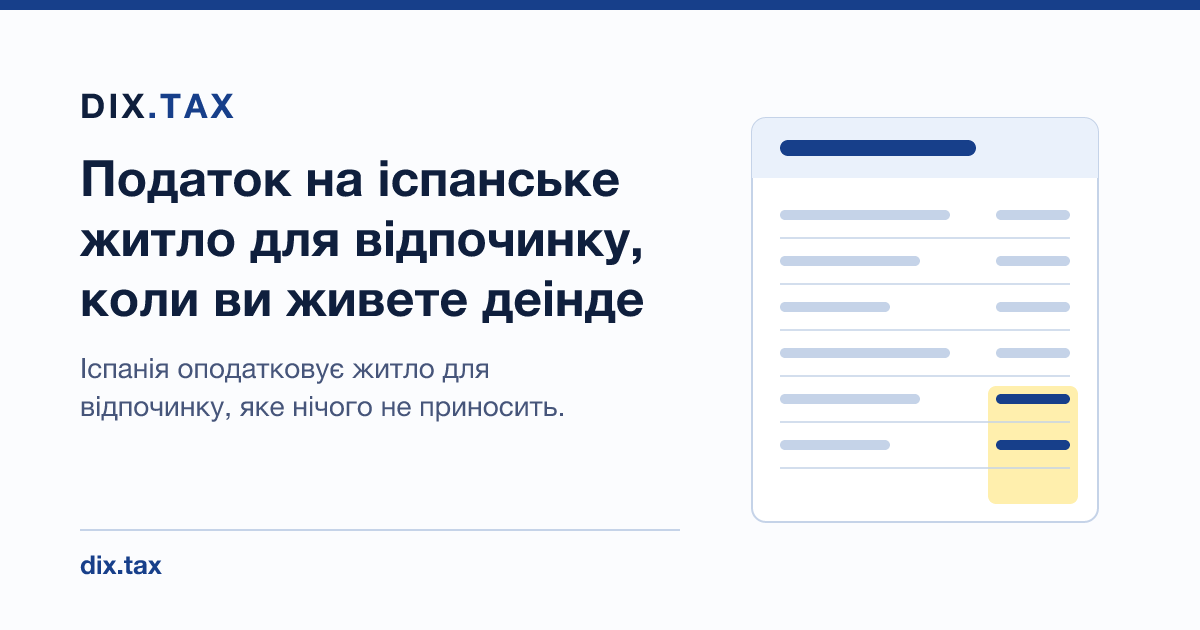
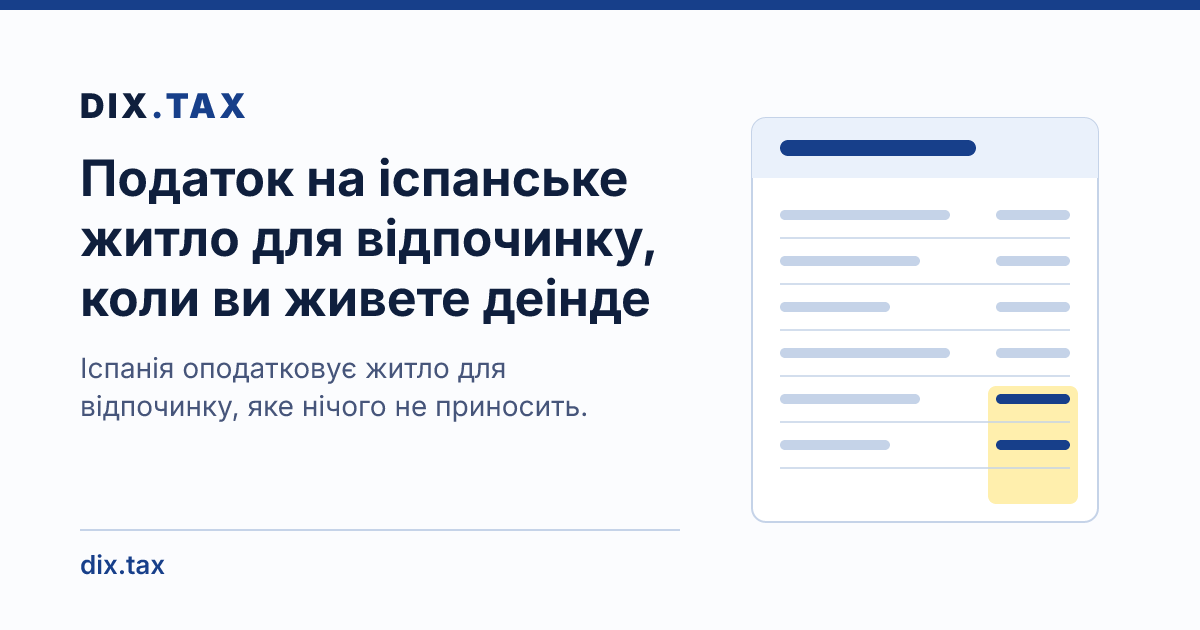
Bundle the font the social images are drawn with
The CI check I added yesterday failed on its first run, and it was right to.
resvg borrows fonts from the machine it runs on, and the script asked for
Helvetica, which Ubuntu does not have. The images therefore came out in a
different typeface on CI than on a Mac, which means the committed pictures had
been whatever the last person to run the command happened to have installed.

Inter is now bundled as a dev dependency and system fonts are switched off, so
the drawing is the same everywhere: close to the system grotesk the site uses,
covers Latin and Cyrillic, OFL. Verified that Ukrainian and Russian render as
letters rather than as empty boxes, which is the failure mode that would have
gone unnoticed.

All thirty images redrawn.

diff --git a/README.md b/README.md
@@ -105,7 +105,9 @@ visitor's chat app can reach our server.
 The page list is not written in the script: it reads `PRODUCTS` and `GUIDES` directly, so a
 country or a guide added to a registry gets a picture without anyone remembering to add it.
 CI redraws them on every push and fails if the committed files differ, so a changed title
-cannot leave a stale preview behind. `useSocialImage()` points a page at its own image, and the
+cannot leave a stale preview behind. The font is bundled (Inter, as a dev dependency) and
+system fonts are switched off: resvg otherwise borrows whatever the machine has, which made
+the same command produce a different typeface on macOS and on CI. `useSocialImage()` points a page at its own image, and the
 allowed names come from the same registries.
 
 ## Analytics
